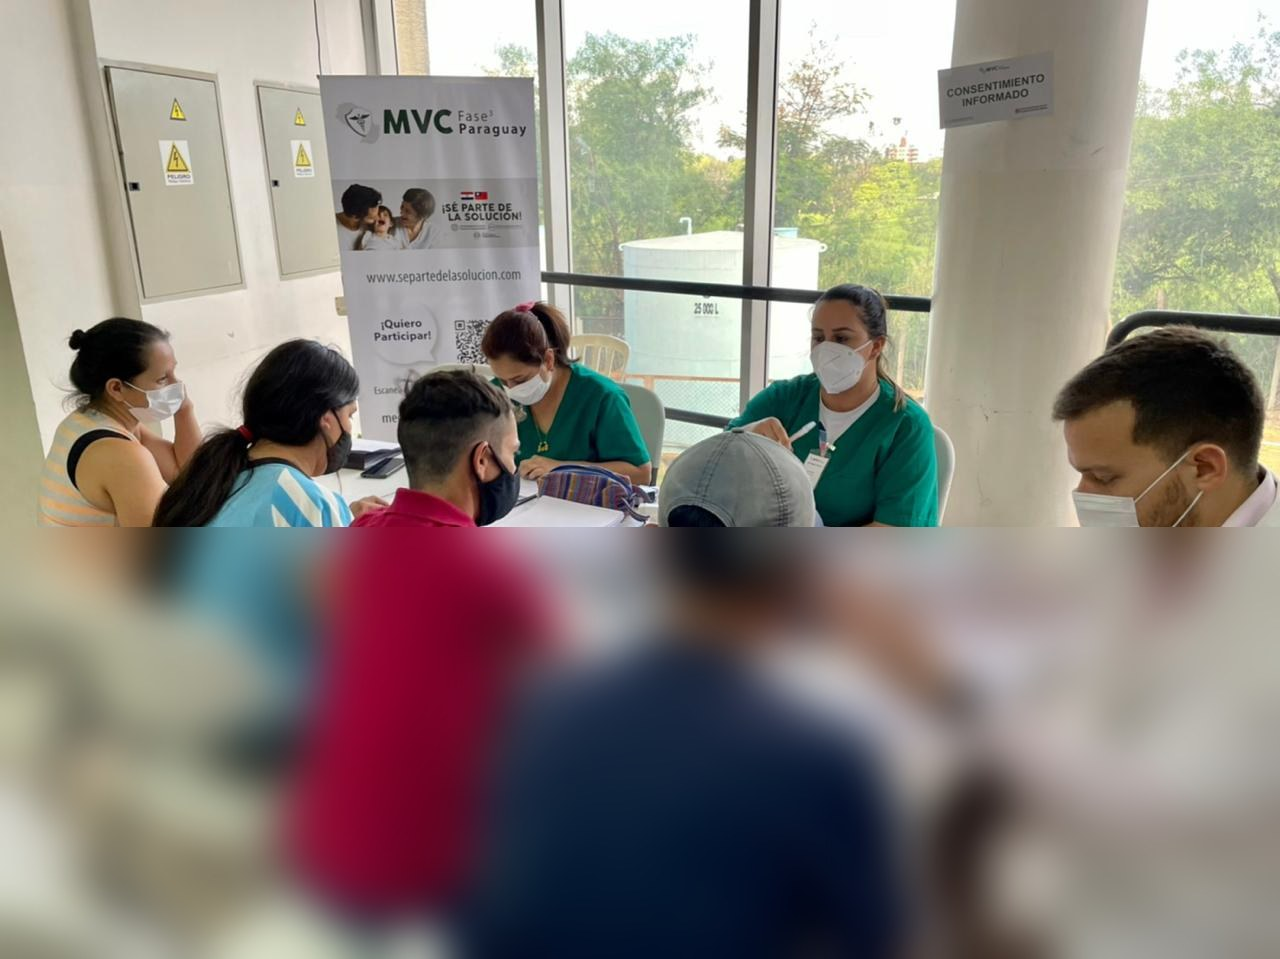
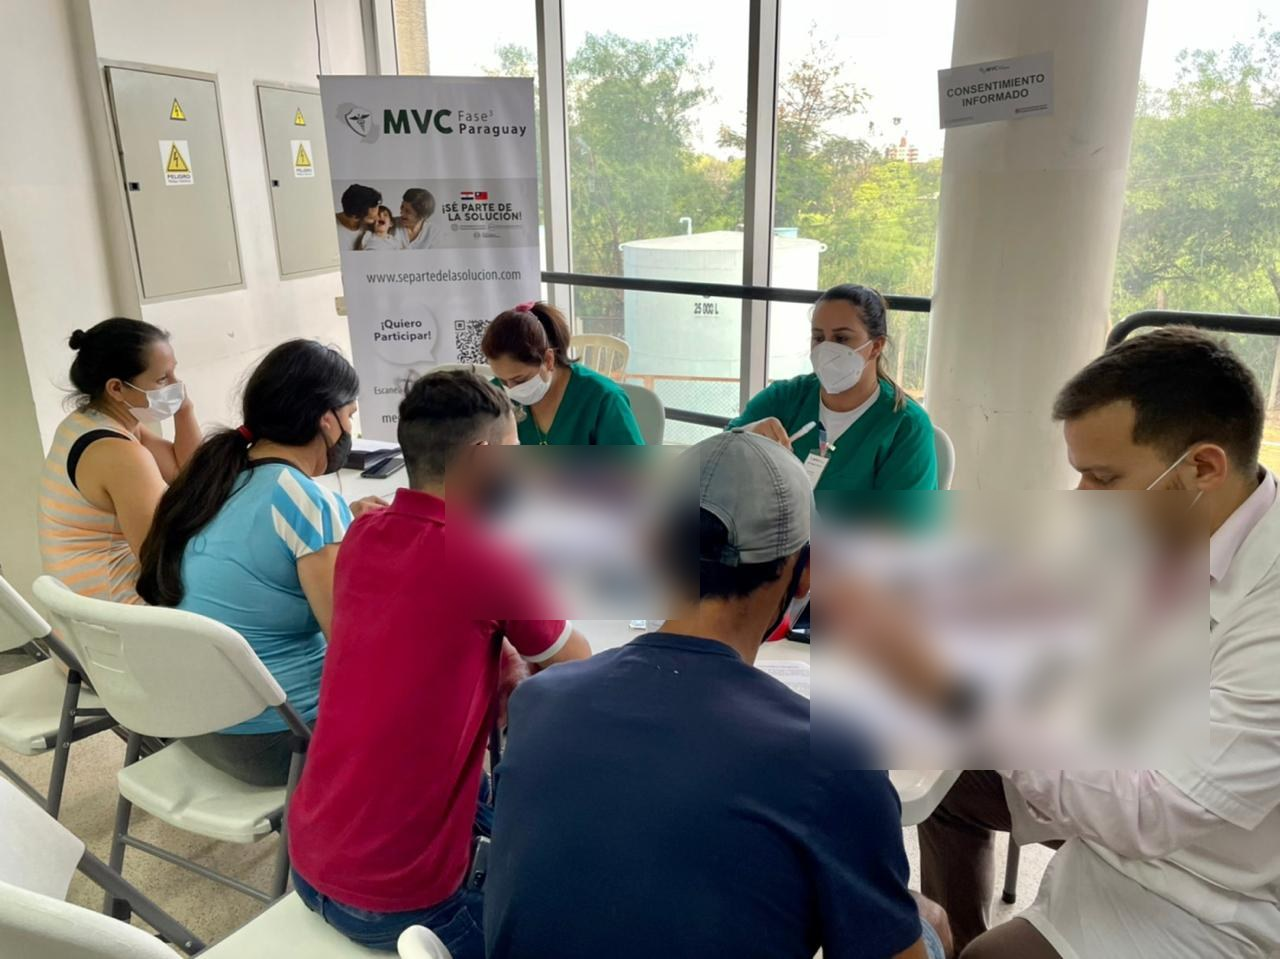
**Correcciones de Gabriela aplicadas — completa** - La bio de Trayectoria ahora es la que ella dictó: titular "CIENCIA, LIDERAZGO Y EJECUCIÓN PARA TRANSFORMAR LA SALUD." y los dos párrafos en primera persona (maestrías, Harvard, Laboratorios Horvath, Advanced Science Hub) — también traducida al ingl

diff --git a/frontend/src/i18n.js b/frontend/src/i18n.js
@@ -110,14 +110,16 @@ export const copy = {
       button: "Contactar",
     },
     footer: {
-      location: "Ciudad del Este · Paraguay",
+      location: "Asunción · Paraguay",
       rights: "© 2026 Dra. Gabriela Horvath · Todos los derechos reservados",
       credit: "Hecho por Tekoha Systems",
     },
     traj: {
       overline: "Trayectoria",
       title: "Una trayectoria construida entre ciencia y liderazgo",
-      bio: "Doctora en Bioquímica por la Universidad del Norte, con dos maestrías internacionales y formación en investigación clínica en Harvard Medical School. Dirige Laboratorio Horvath — institución con más de 40 años de trayectoria — y fue Project Manager y representante local de Medigen (Taiwán) en el primer ensayo clínico Fase III realizado en Paraguay. Es Perito Profesional de la Corte Suprema de Justicia y Profesora Adjunta de Toxicología en la Universidad Nacional de Asunción.",
+      bioLead: "Ciencia, liderazgo y ejecución para transformar la salud.",
+      bio1: "Soy doctora en Bioquímica, con maestrías internacionales en Toxicología y Dirección Ejecutiva de Proyectos, y formación en investigación clínica en Harvard Medical School.",
+      bio2: "Dirijo Laboratorios Horvath, institución con más de 40 años de trayectoria, y lidero Horvath Advanced Science Hub. Mi trabajo integra dirección de laboratorios, innovación diagnóstica, investigación clínica internacional y gestión de proyectos complejos en entornos regulatorios exigentes.",
       categories: [
         {
           t: "Formación académica",
@@ -149,7 +151,7 @@ export const copy = {
             { r: "Fibrosis miocárdica inducida por sal", o: "XXXI Congreso Mundial de Medicina Interna, Santiago de Chile" },
             { r: "Colinesterasa sérica en fumigadores agropecuarios", o: "Biomarcador de exposición a plaguicidas · Centro Nacional de Toxicología, Ministerio de Salud" },
             { r: "Suplementación de L-glutamina y L-alanina", o: "Estudio experimental en ciclistas de alta competición" },
-            { r: "Indigenismo: Diversidad e Inclusión en Paraguay", o: "Proyecto con el pueblo Mbya Guaraní · competencia internacional CAF" },
+            { r: "«Emprendiendo la tradición» — Indigenismo, diversidad e inclusión", o: "Proyecto con el pueblo Mbya Guaraní · Seleccionado por CAF como el mejor proyecto de Paraguay — Diplomado en Gobernabilidad e Innovación Pública, 2023" },
           ],
         },
         {
@@ -167,8 +169,6 @@ export const copy = {
         {
           t: "Membresías profesionales",
           items: [
-            { r: "AACC", o: "Asociación Americana de Química Clínica, Estados Unidos" },
-            { r: "ABA", o: "Asociación Bioquímica Argentina" },
             { r: "Harvard Alumni", o: "Estados Unidos" },
           ],
         },
@@ -185,6 +185,7 @@ export const copy = {
         { img: "/assets/gallery/aeropuerto.jpg", cap: "Puesto de biología molecular · Aeropuerto Internacional Silvio Pettirossi" },
         { img: "/assets/gallery/team-lab.jpg", cap: "El equipo del laboratorio — 80% mujeres" },
         { img: "/assets/gallery/biosafety.jpg", cap: "Laboratorio de alta complejidad desarrollado para Fundación Tesãi" },
+        { img: "/assets/gallery/caf-cert.jpg", cap: "2023 — CAF seleccionó «Emprendiendo la tradición» como el mejor proyecto de Paraguay" },
       ],
     },
     method: {
@@ -365,14 +366,16 @@ export const copy = {
       button: "Contact",
     },
     footer: {
-      location: "Ciudad del Este · Paraguay",
+      location: "Asunción · Paraguay",
       rights: "© 2026 Dr. Gabriela Horvath · All rights reserved",
       credit: "Built by Tekoha Systems",
     },
     traj: {
       overline: "Journey",
       title: "A career built between science and leadership",
-      bio: "Doctorate in Biochemistry from Universidad del Norte, with two international master's degrees and clinical research training at Harvard Medical School. She leads Laboratorio Horvath — an institution with over 40 years of track record — and was Project Manager and local representative of Medigen (Taiwan) in the first Phase III clinical trial conducted in Paraguay. She is a Professional Expert Witness of the Supreme Court of Justice and Adjunct Professor of Toxicology at the Universidad Nacional de Asunción.",
+      bioLead: "Science, leadership and execution to transform health.",
+      bio1: "I am a Doctor of Biochemistry, with international master's degrees in Toxicology and Executive Project Management, and clinical research training at Harvard Medical School.",
+      bio2: "I lead Laboratorios Horvath, an institution with more than 40 years of track record, and I head Horvath Advanced Science Hub. My work integrates laboratory direction, diagnostic innovation, international clinical research and management of complex projects in demanding regulatory environments.",
       categories: [
         {
           t: "Academic background",
@@ -404,7 +407,7 @@ export const copy = {
             { r: "Salt-induced myocardial fibrosis", o: "XXXI World Congress of Internal Medicine, Santiago de Chile" },
             { r: "Serum cholinesterase in agricultural sprayers", o: "Pesticide exposure biomarker · National Toxicology Center, Ministry of Health" },
             { r: "L-glutamine and L-alanine supplementation", o: "Experimental study in high-performance cyclists" },
-            { r: "Indigenism: Diversity & Inclusion in Paraguay", o: "Project with the Mbya Guaraní people · CAF international competition" },
+            { r: "«Emprendiendo la tradición» — Indigenism, diversity & inclusion", o: "Project with the Mbya Guaraní people · Selected by CAF as the best project in Paraguay — Diploma in Governance & Public Innovation, 2023" },
           ],
         },
         {
@@ -422,8 +425,6 @@ export const copy = {
         {
           t: "Professional memberships",
           items: [
-            { r: "AACC", o: "American Association for Clinical Chemistry, United States" },
-            { r: "ABA", o: "Argentine Biochemistry Association" },
             { r: "Harvard Alumni", o: "United States" },
           ],
         },
@@ -440,6 +441,7 @@ export const copy = {
         { img: "/assets/gallery/aeropuerto.jpg", cap: "Molecular biology point · Silvio Pettirossi International Airport" },
         { img: "/assets/gallery/team-lab.jpg", cap: "The laboratory team — 80% women" },
         { img: "/assets/gallery/biosafety.jpg", cap: "High-complexity laboratory developed for Fundación Tesãi" },
+        { img: "/assets/gallery/caf-cert.jpg", cap: "2023 — CAF selected «Emprendiendo la tradición» as the best project in Paraguay" },
       ],
     },
     method: {

diff --git a/frontend/src/pages/Trayectoria.jsx b/frontend/src/pages/Trayectoria.jsx
@@ -14,8 +14,14 @@ export default function Trayectoria() {
           <span className="mt-6 block w-12 h-1 bg-corp" aria-hidden="true" />
         </Reveal>
         <Reveal delay={0.16}>
-          <p className="mt-10 max-w-3xl text-lg sm:text-xl font-light leading-relaxed text-black/65" data-testid="trayectoria-bio">
-            {t.traj.bio}
+          <p className="mt-10 max-w-3xl text-xl sm:text-2xl font-semibold uppercase tracking-wide leading-snug text-black" data-testid="trayectoria-bio-lead">
+            {t.traj.bioLead}
+          </p>
+          <p className="mt-6 max-w-3xl text-lg sm:text-xl font-light leading-relaxed text-black/65" data-testid="trayectoria-bio">
+            {t.traj.bio1}
+          </p>
+          <p className="mt-4 max-w-3xl text-lg sm:text-xl font-light leading-relaxed text-black/65">
+            {t.traj.bio2}
           </p>
         </Reveal>
       </section>

diff --git a/memory/PRD.md b/memory/PRD.md
@@ -70,6 +70,8 @@ La versión anterior (oscura navy/cyan) fue REEMPLAZADA por la propuesta de refe
 
 - Footer refinado (25 ago 2026): sello circular recomponiendo la imagen para que llene todo el círculo blanco (era solo el anillo azul sobre transparencia); redes como links limpios ícono+texto sin píldoras (WhatsApp, Instagram, Correo).
 
+- Correcciones de Gabriela (25 ago 2026): bio de Trayectoria reescrita en primera persona con lead "Ciencia, liderazgo y ejecución para transformar la salud."; membresías solo Harvard Alumni (AACC y ABA removidas — no activas); hito CAF: «Emprendiendo la tradición» seleccionado como mejor proyecto de Paraguay (Diplomado Gobernabilidad e Innovación Pública 2023) en Producción científica + certificado en galería (caf-cert.jpg); blur de mvc-recruit.jpg solo sobre las hojas con bordes suaves; footer vuelve a Asunción · Paraguay.
+
 ## Backlog priorizado
 - P0: Definir precios/modalidad de los 3 servicios con Gabriela.
 - P0: Revisión de copy línea por línea con Gabriela.
